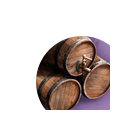
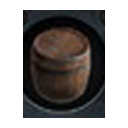
fix(web): 酿酒厂啤酒 token 可见化——资源 token 锚定槽位矩形 + 中性酒桶图标
- ResourceTokens 由 SLOT_CENTERS(多城偏差 30-160px)改为按槽位矩形中心
  锚定:酿酒厂建成后的啤酒 token 实际显示在板块上(此前画飘到板外)。
- beer.png 从"紫色酒厂板块圆形裁切"改为版图上商人啤酒格的印刷酒桶
  (深色中性):紫底板块上不再隐形,任何玩家色板块上都清晰;fetch-assets
  的 beer 任务同步为该裁法。
- 商人位初始啤酒格贴桶(非 blank 板块旁,含剩余数 token)沿用 #31 的
  矩形渲染,配合新图标显示。

diff --git a/packages/web/src/board/BoardSvg.tsx b/packages/web/src/board/BoardSvg.tsx
@@ -404,7 +404,7 @@ export function BoardSvg({ state, highlights, spotlight, thinkingSeats, buildPre
                         </g>
                         {tile.resources > 0 && !tile.flipped ? (
                           <>
-                            <ResourceTokens cx={c.x} cy={c.y} industry={tile.tile.industry} count={tile.resources} />
+                            <ResourceTokens cx={r.x + r.w / 2} cy={r.y + r.h / 2} industry={tile.tile.industry} count={tile.resources} />
                             <g className="tile-resources">
                               <rect x={r.x + r.w - 62} y={r.y + r.h - 62} width={62} height={62} rx={12} fill="#14100a" opacity={0.85} />
                               <text x={r.x + r.w - 31} y={r.y + r.h - 18} textAnchor="middle" fontSize={40} fill="#f3e9c8">
